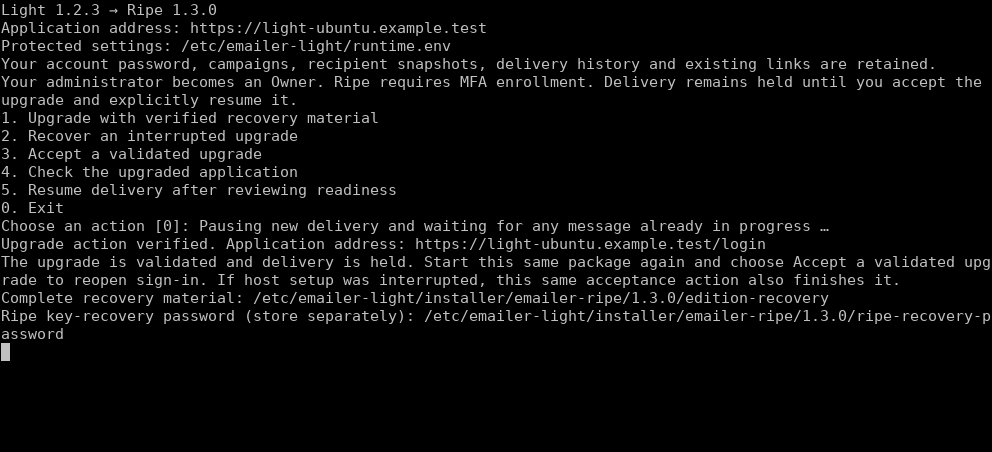
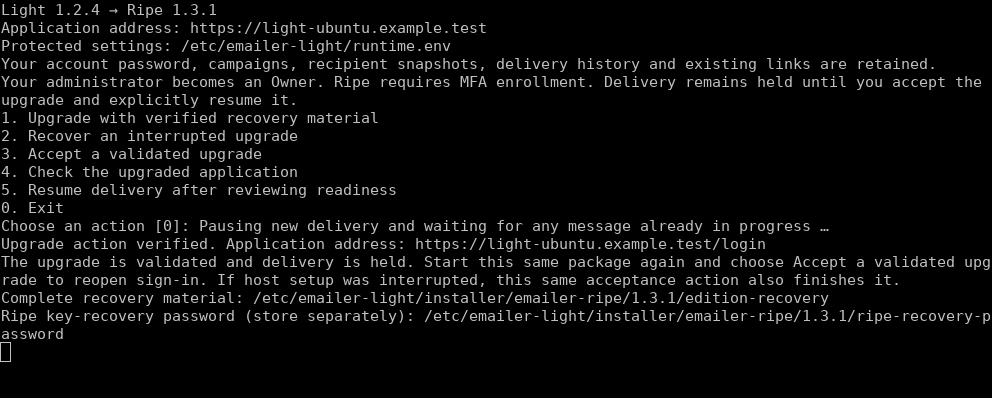
Refresh actual Light124 to Ripe131 upgrade screenshots

Changed region(s): [[0.0, 0.0, 1.0, 0.8744]]

diff --git a/docs/guides/emailer-light-to-ripe-upgrade.md b/docs/guides/emailer-light-to-ripe-upgrade.md
@@ -46,7 +46,7 @@ Initial trust comes from the official HTTPS or authorized private delivery chann
 
 If asked about an existing Light installation, choose **Upgrade this Light installation to Ripe**. If both standard installations are found, select the intended address when asked. A custom or unrecognized target stops without adoption. Check the displayed Light version and address, then choose **Upgrade with verified recovery material**. Wait for named progress and validation. Retain the printed recovery location.
 
-![Actual Light to Ripe management menu and successful upgrade output.](images/emailer-ripe-upgrade.png)
+![Actual Ubuntu 26.04 / Virtualmin upgrade from published Light 1.2.4 to Ripe 1.3.1.](images/emailer-ripe-upgrade.png)
 
 If interrupted, start the same file and choose **Recover an interrupted upgrade** before retrying. If the message says conversion committed, follow its Accept instruction. Never delete operation journals or edit migration records to retry.
 
@@ -70,7 +70,7 @@ Open Mail settings. Existing SMTP settings should be retained. Choose **Test con
 
 Resolve Doctor's sending blockers and review previously approved or scheduled campaigns: lifting the hold can allow existing due work to continue. Start the same setup file, choose **Resume delivery after reviewing readiness** and answer yes. All normal sending checks must pass. The action does not approve any draft.
 
-![Actual acceptance output. Sign in and complete MFA, then review Doctor before choosing Resume delivery.](images/emailer-ripe-resume.png)
+![Actual Ripe 1.3.1 acceptance output. Sign in and complete MFA, then review Doctor before choosing Resume delivery.](images/emailer-ripe-resume.png)
 
 If you are not ready, exit; drafting remains available. Keep recovery material after acceptance.
 

diff --git a/docs/RELEASE-1.3.1-PREPARATION.md b/docs/RELEASE-1.3.1-PREPARATION.md
@@ -51,9 +51,22 @@ new versions. There is no Ripe-to-Light downgrade.
   tests per edition pass independently. No readiness, signature, fence,
   restoration or no-downgrade control was weakened.
 
-The final Light 1.2.4 publication, complete required GitHub CI matrix, exact-head
-merge approval, merge-commit rebuild and exact final-package acceptance remain
-release gates. Candidate tests are not represented as final published-package
+Light 1.2.4 is now published from b844cb64694de69158190287260a7ffe6c092aed.
+Its official setup SHA256 is
+264d66349a1848600a0685a602b106aab1fba20eae87b356fa95e070b331391b.
+The public download is byte-identical to the independently accepted package.
+A second complete Ripe candidate uses those actual official Light predecessor
+bytes. Its Ubuntu 26 / Virtualmin Upgrade, explicit Accept and repeated Check
+pass: all 5,564 installed runtime files verify, the administrator password hash,
+identity, encryption material and delivery history are retained, Owner/High
+mapping is correct, no contacts/list memberships are manufactured, and delivery
+remains held with zero attempts or queued messages. Both existing websites
+remain healthy across 916 probes; all five unrelated service PIDs are unchanged.
+The two upgrade/acceptance terminal screenshots were refreshed from these actual
+1.2.4-to-1.3.1 actions after review found obsolete 1.3.0 paths in inherited images.
+
+The complete required GitHub CI matrix, exact-head merge approval, merge-commit
+rebuild and exact final-package acceptance remain release gates. Candidate tests are not represented as final published-package
 acceptance. The existing eight CI jobs retain all original members and add
 PHP 8.5/MariaDB 11.8 to both application and installer matrices.
 
